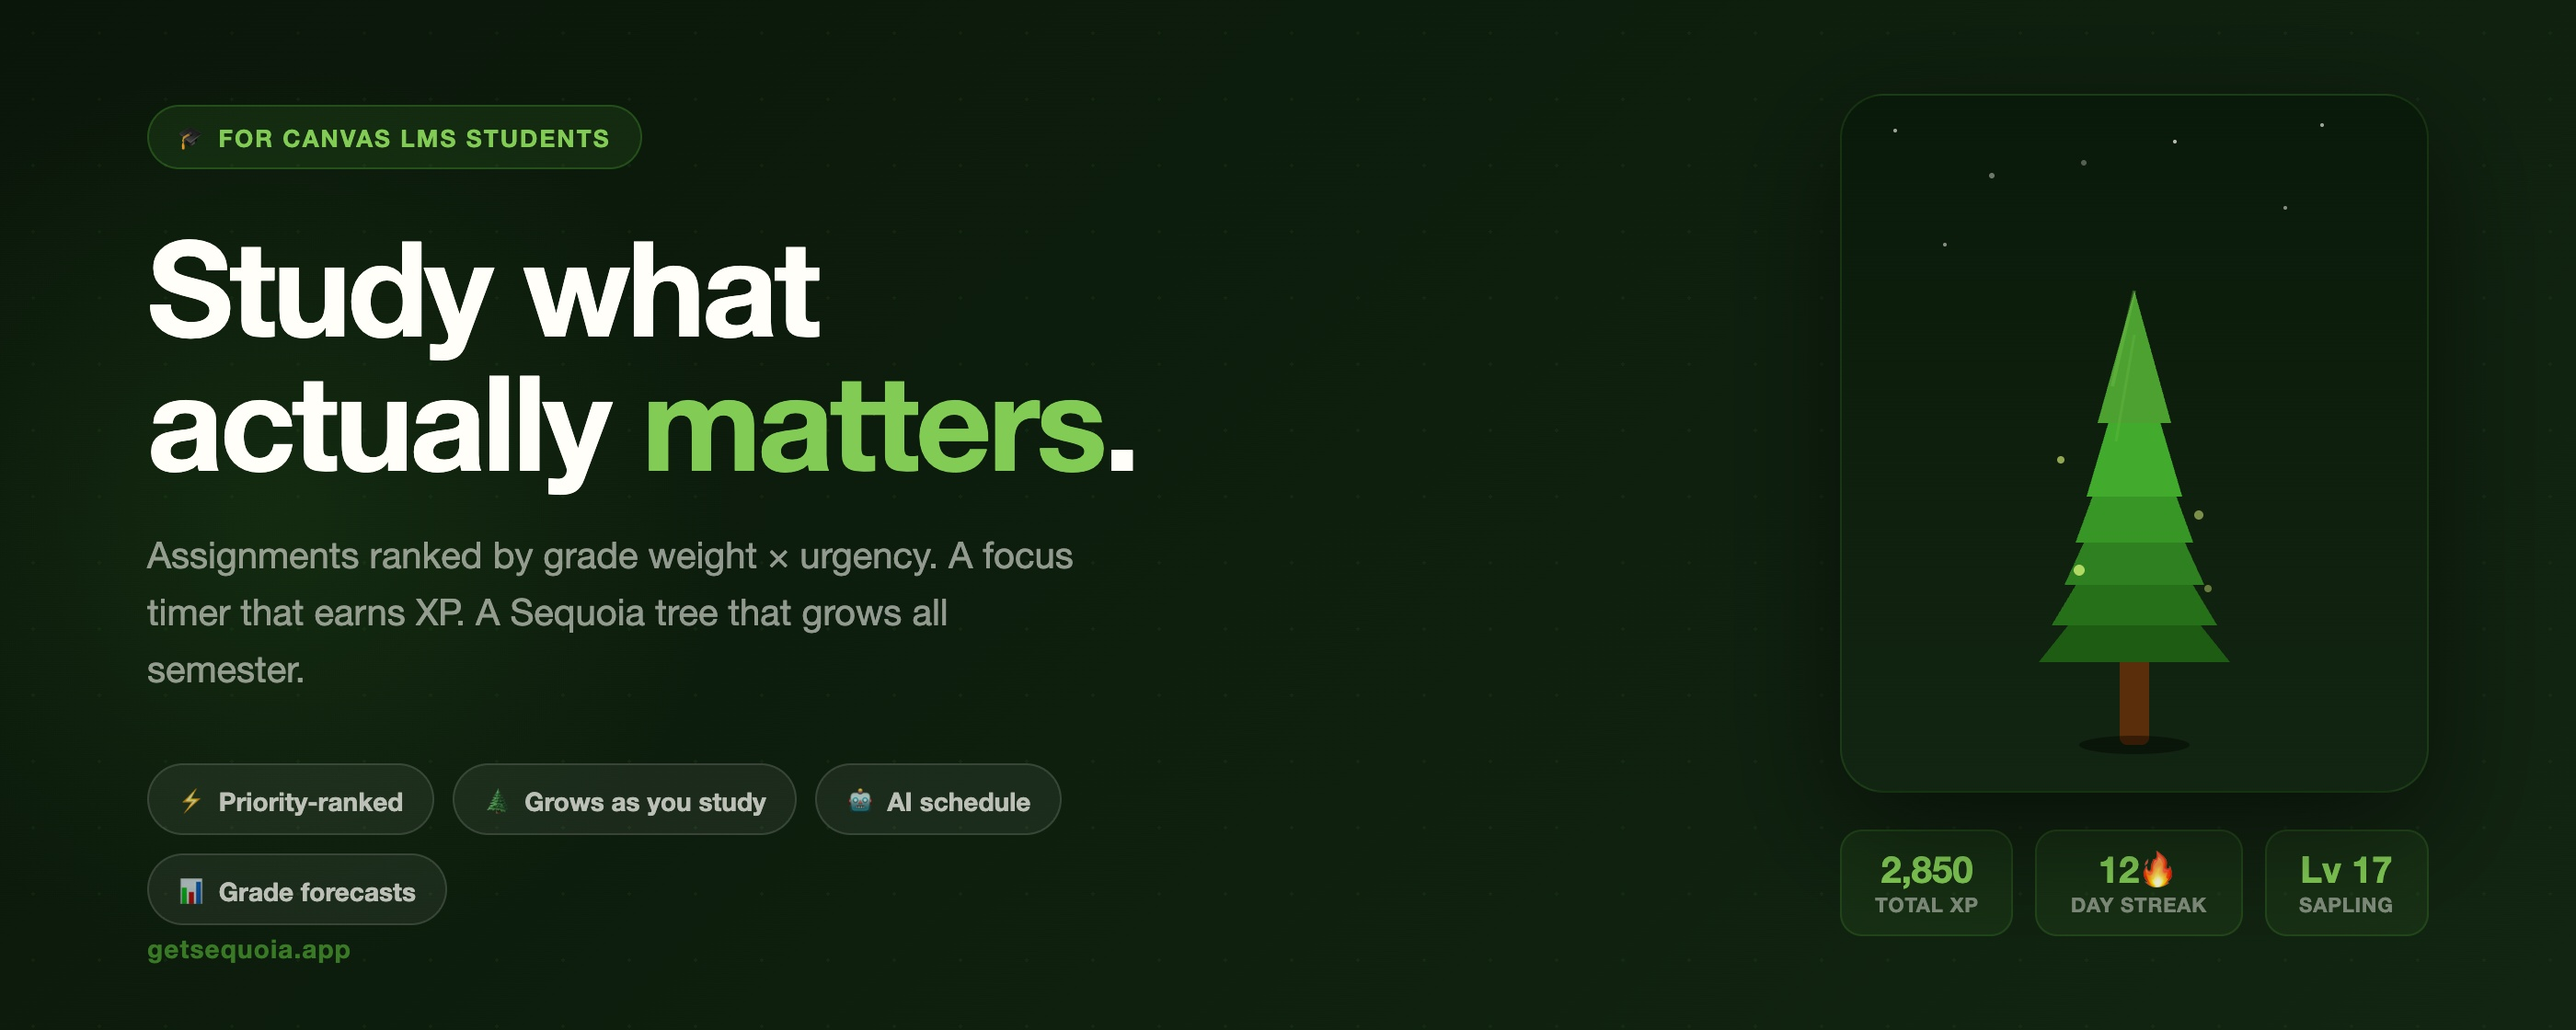
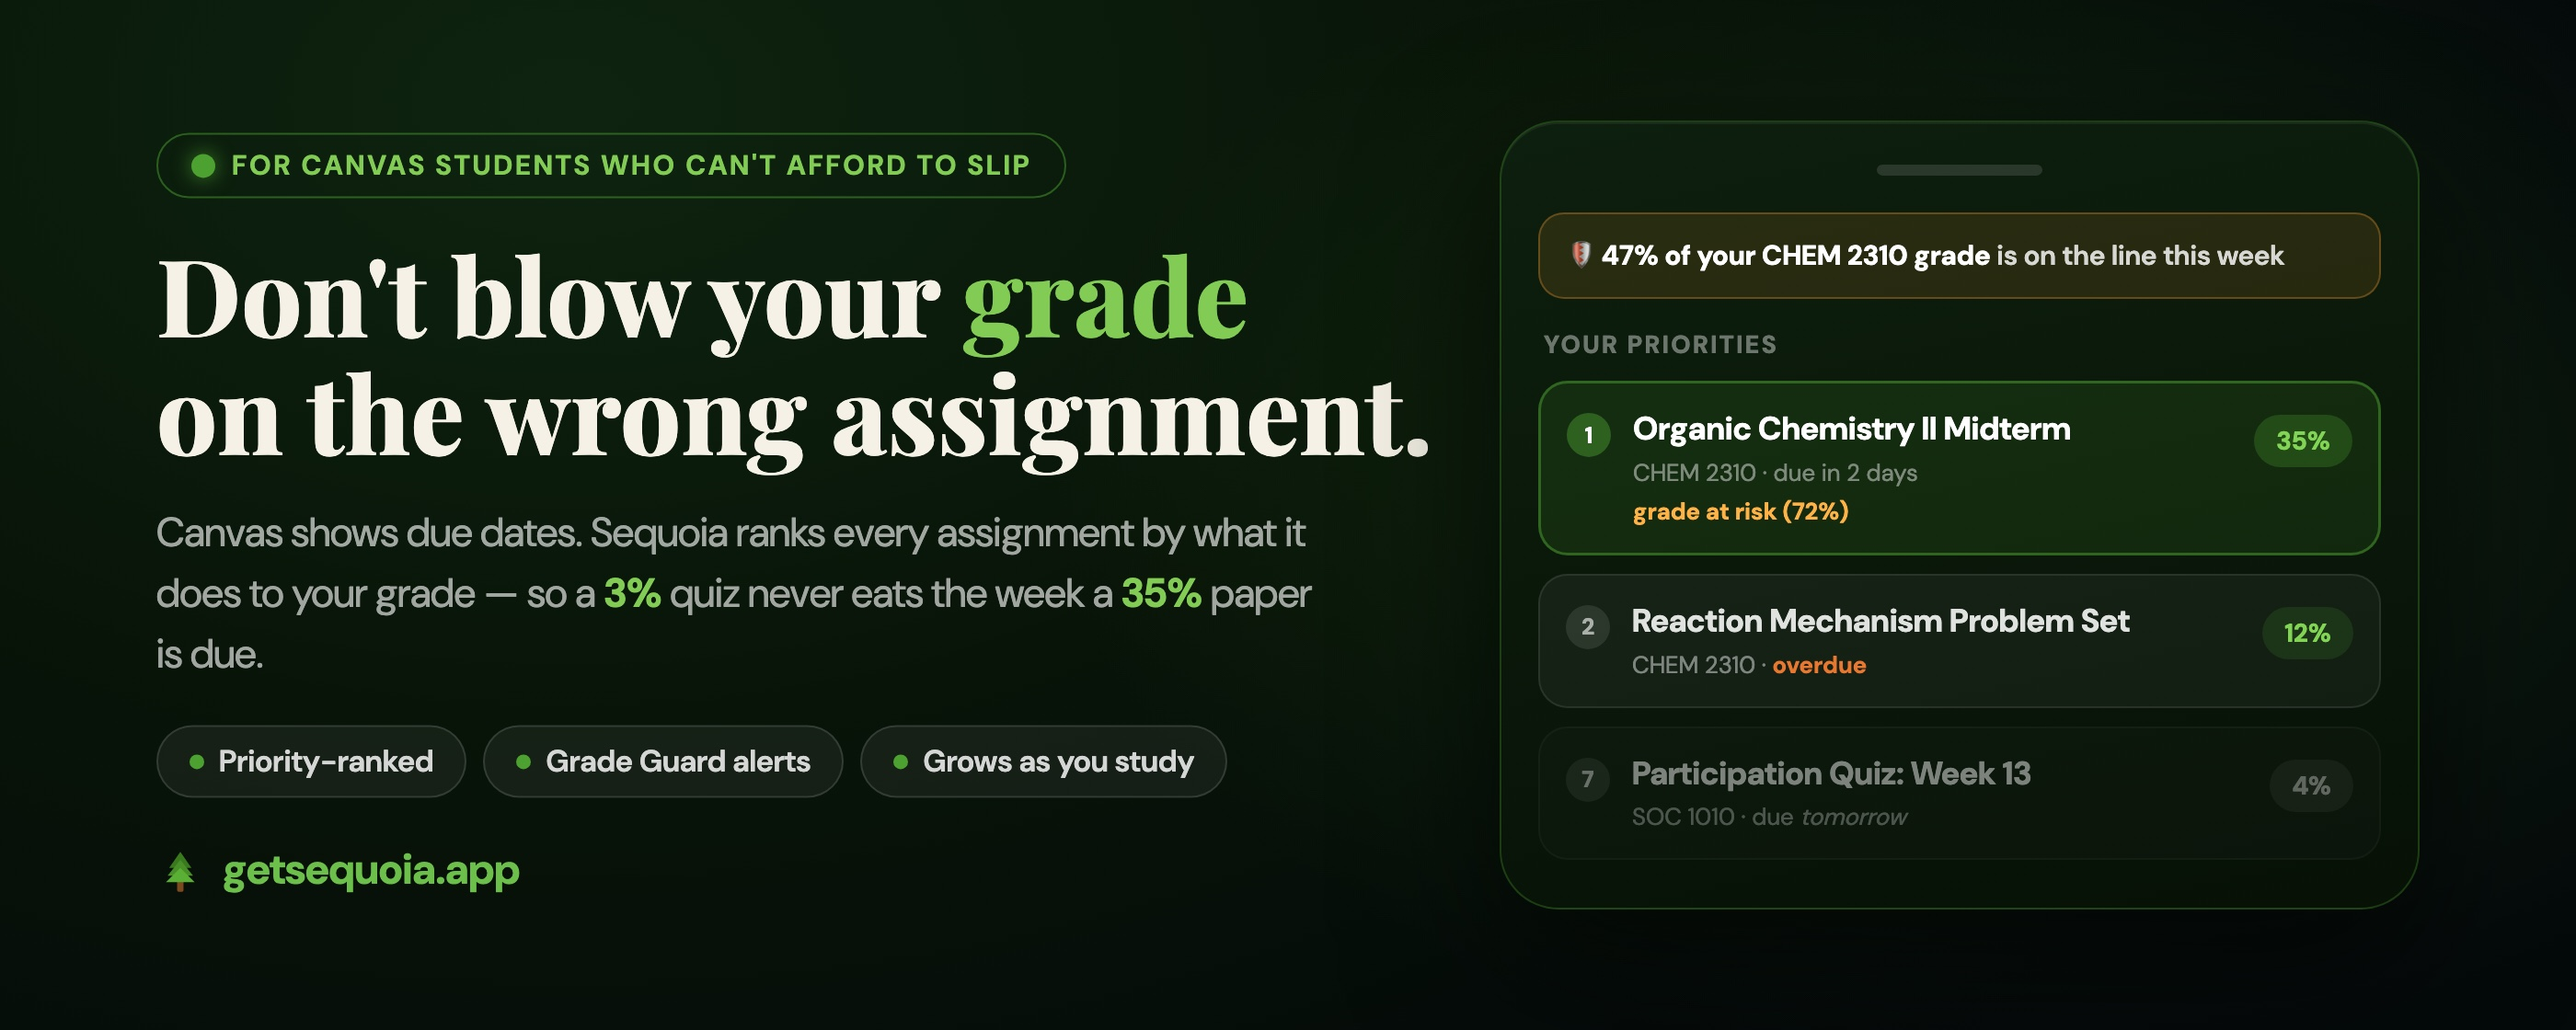
feat: rebuild share card to match the painkiller hook
The og:image still carried the old "Study what actually matters" messaging
while the site now leads with "Don't blow your grade on the wrong
assignment." Rebuild the 2800x1120 card (headless-Chrome render of an HTML
comp using the brand fonts): new headline, grade-protection subline, chips,
and the same ranked-priorities phone mock as the landing proof section
(35% midterm at #1 over an overdue set and a next-day 4% quiz, Grade Guard
bar). Bump the og:image/twitter:image/JSON-LD URLs to ?v=2 so link scrapers
re-fetch instead of serving their cached copy of the old card.

Bump service worker cache v113 -> v114.

diff --git a/index.html b/index.html
@@ -20,7 +20,7 @@
 <meta property="og:description" content="Canvas shows due dates. Sequoia shows what each assignment does to your grade and flags what's at risk before it sneaks up on you. Free to start.">
 <meta property="og:type" content="website">
 <meta property="og:url" content="https://getsequoia.app">
-<meta property="og:image" content="https://getsequoia.app/social-preview.jpg">
+<meta property="og:image" content="https://getsequoia.app/social-preview.jpg?v=2">
 <meta property="og:image:width" content="2800">
 <meta property="og:image:height" content="1120">
 <meta property="og:site_name" content="Sequoia">
@@ -29,7 +29,7 @@
 <meta name="twitter:card" content="summary_large_image">
 <meta name="twitter:title" content="Sequoia — Don't blow your grade on the wrong assignment">
 <meta name="twitter:description" content="Canvas shows due dates. Sequoia shows what's actually at risk for your grade — before it sneaks up on you. Free to start.">
-<meta name="twitter:image" content="https://getsequoia.app/social-preview.jpg">
+<meta name="twitter:image" content="https://getsequoia.app/social-preview.jpg?v=2">
 
 <!-- Canonical -->
 <link rel="canonical" href="https://getsequoia.app/">
@@ -78,7 +78,7 @@
     "@type": "Person",
     "name": "Calvin Ashe"
   },
-  "screenshot": "https://getsequoia.app/social-preview.jpg",
+  "screenshot": "https://getsequoia.app/social-preview.jpg?v=2",
   "image": "https://getsequoia.app/icon-512.png"
 }
 </script>

diff --git a/sw.js b/sw.js
@@ -1,5 +1,5 @@
 // Sequoia Service Worker
-const CACHE = 'sequoia-v113';
+const CACHE = 'sequoia-v114';
 const BASE  = '';
 // App shell only — kept tiny so first load is fast. Audio (ambience + lo-fi,
 // ~73MB total) is cached on first play via runtime caching below, NOT here.
